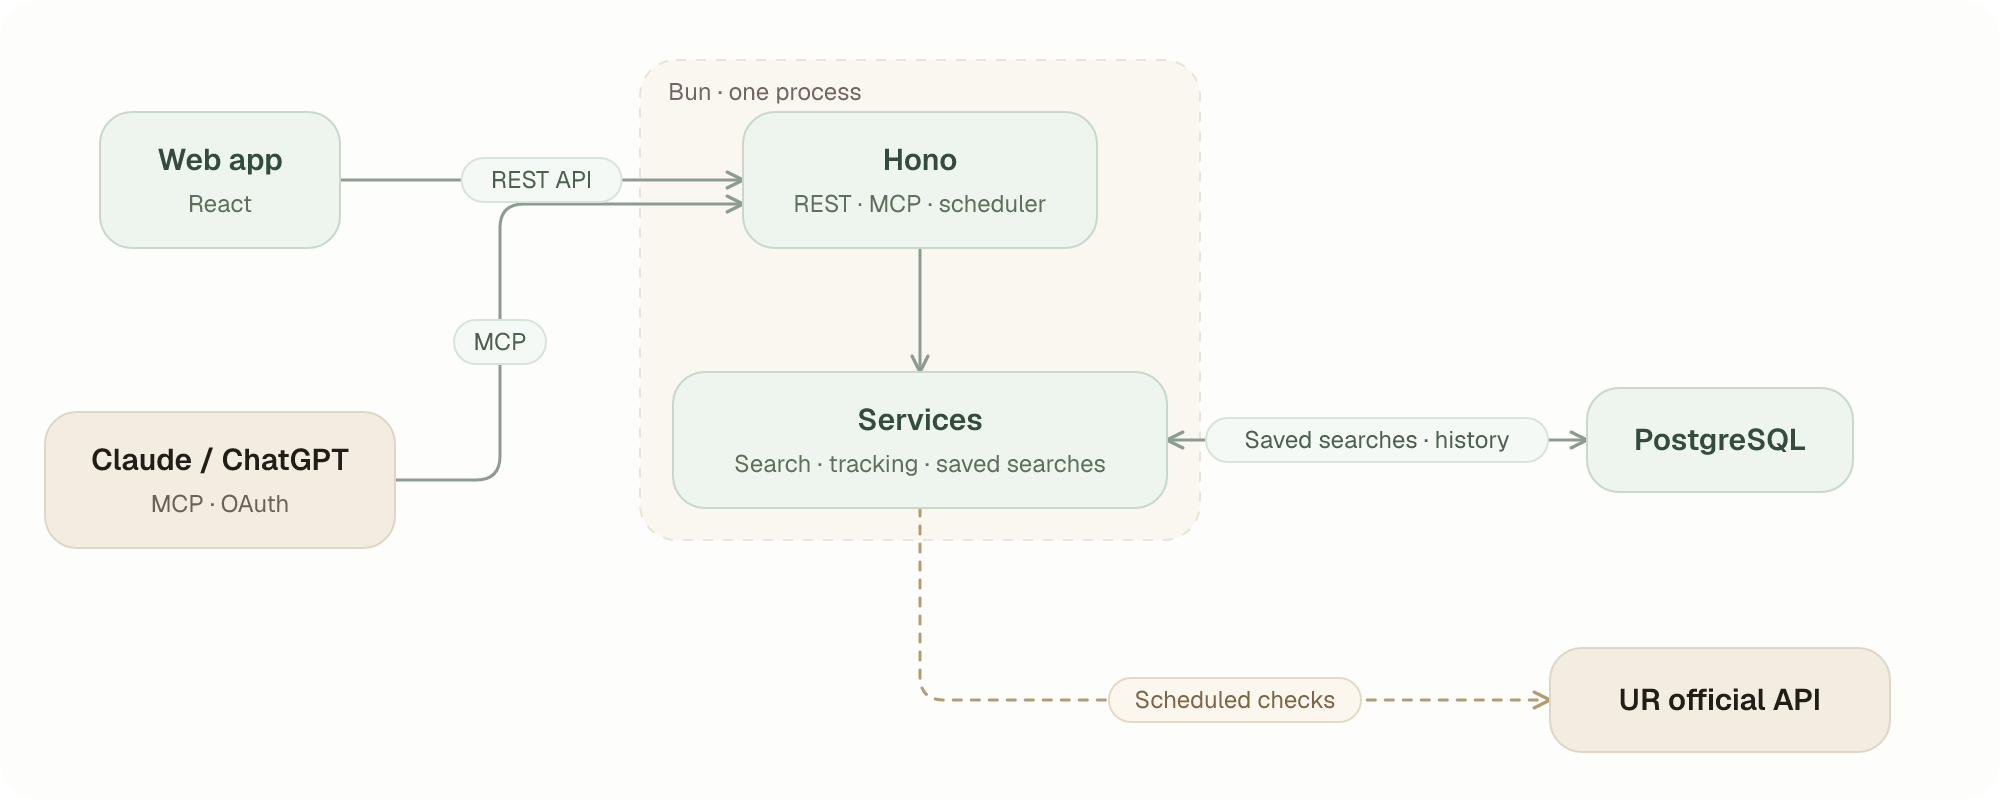
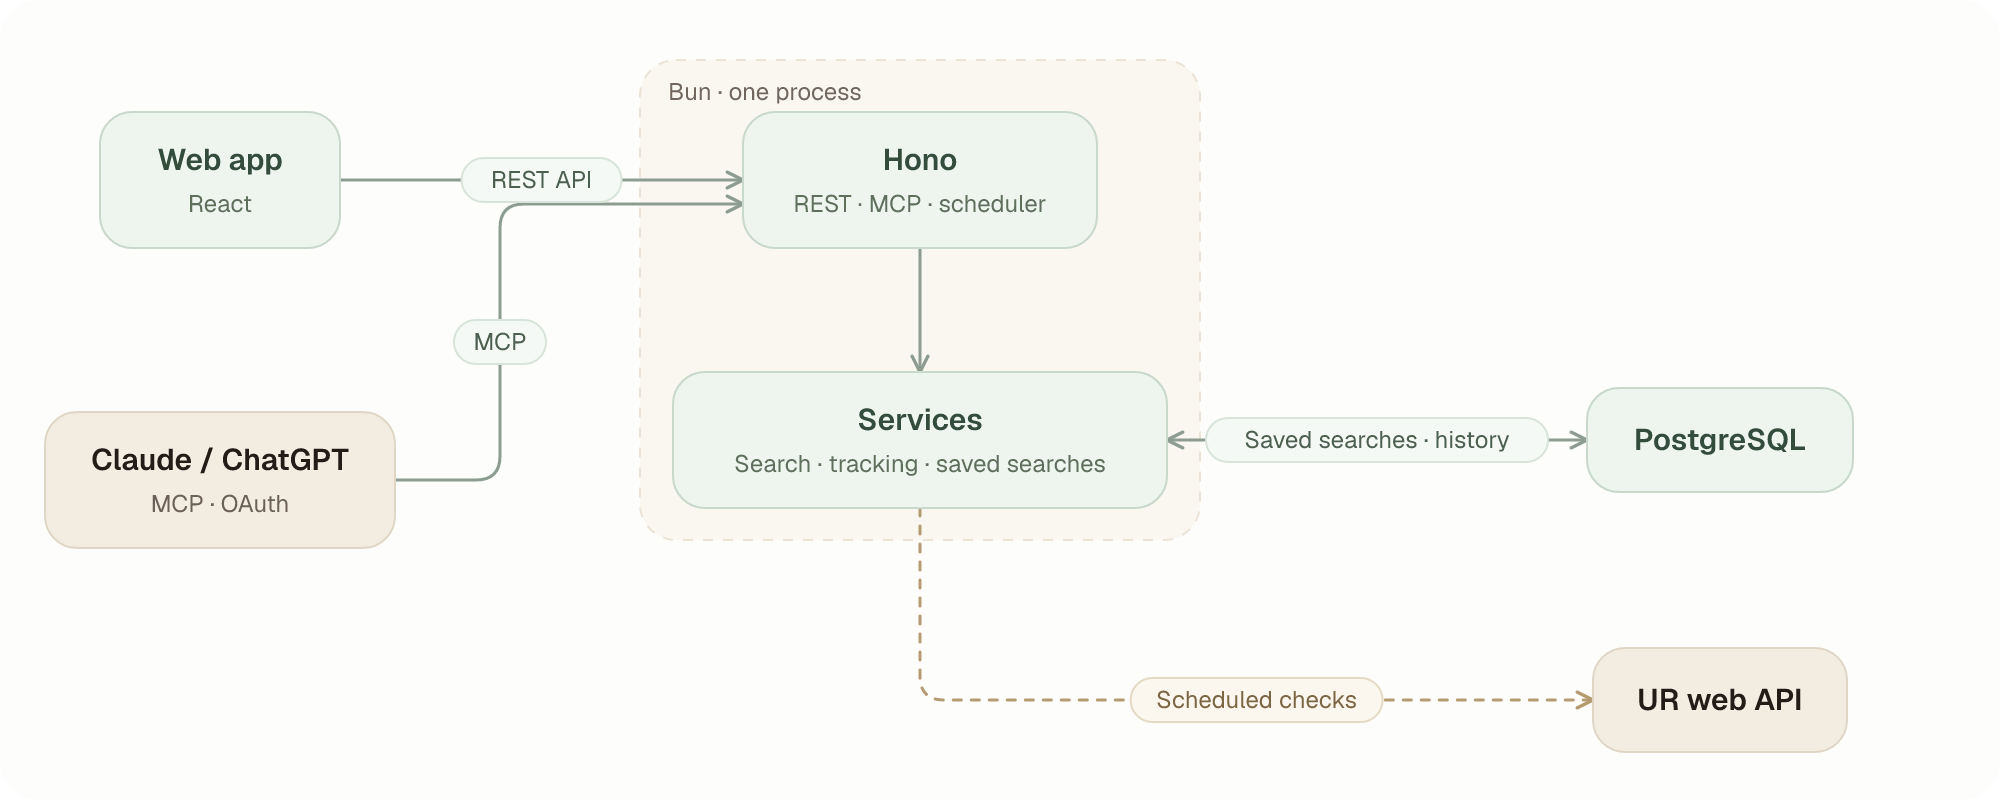
UR Check 구성도의 "UR official API"를 "UR web API"로 바꿈 (#57)
UR Manager·UR MCP App 구성도와 이름을 맞춤.

Changed region(s): [[0.775, 0.8125, 0.961, 0.9375], [0.558, 0.8438, 0.682, 0.9062]]

diff --git a/app/content/projects/ur-check/index.ts b/app/content/projects/ur-check/index.ts
@@ -98,7 +98,7 @@ export const urCheck: Project = {
       { id: "api", x: 460, y: 90, title: "Hono", note: "REST · MCP · scheduler" },
       { id: "services", x: 460, y: 220, title: "Services", note: "Search · tracking · saved searches" },
       { id: "pg", x: 860, y: 220, title: "PostgreSQL" },
-      { id: "ur", x: 860, y: 350, title: "UR official API", tone: "outside" },
+      { id: "ur", x: 860, y: 350, title: "UR web API", tone: "outside" },
     ],
     edges: [
       { from: "web", to: "api", label: "REST API" },
